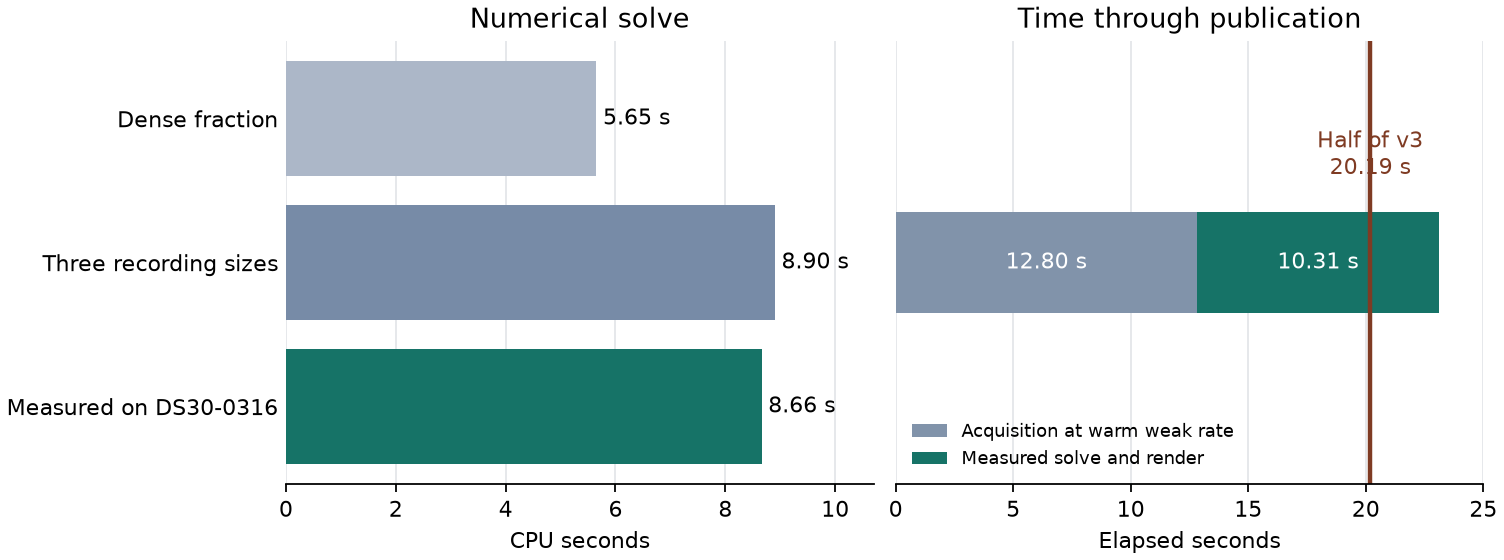
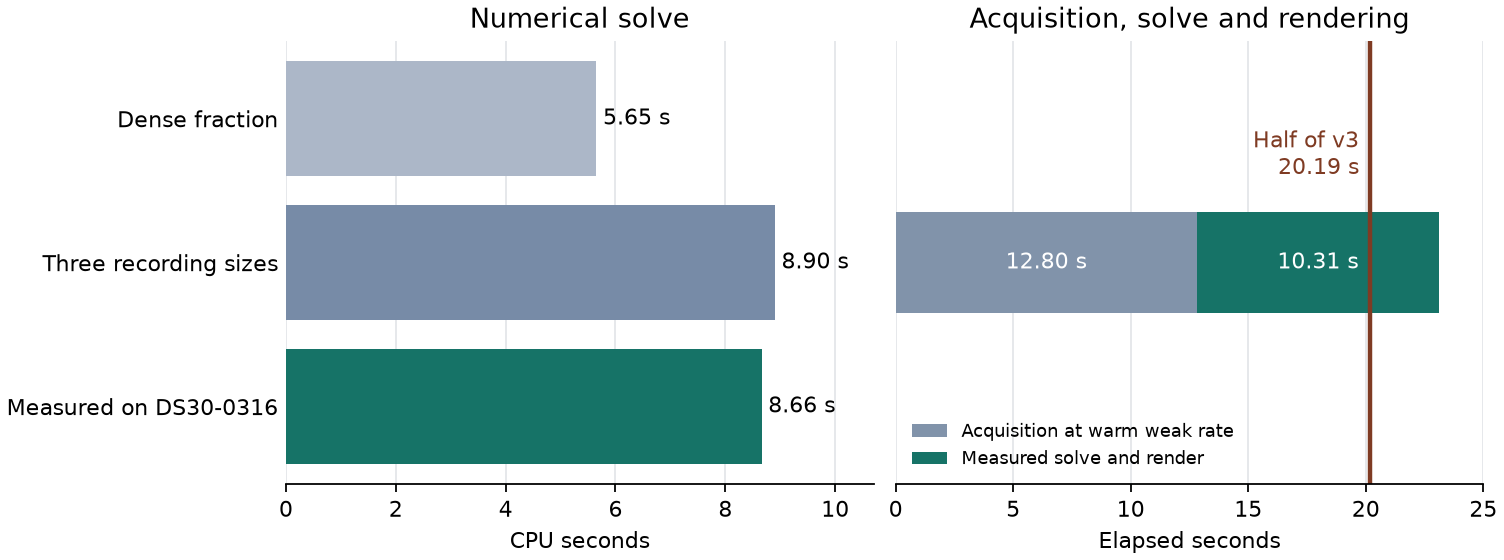
Label the measured and assumed portions of the DS30-0316 timing figure

Changed region(s): [[0.625, 0.0, 0.9375, 0.0607], [0.8125, 0.2125, 0.9375, 0.3339]]

diff --git a/reports/ALGO08/v3/prospective_solver_budget.py b/reports/ALGO08/v3/prospective_solver_budget.py
@@ -87,9 +87,10 @@ def plot(result, output):
         budget.text(left + amount / 2, 0, f"{amount:.2f} s", ha="center", va="center", color="white")
     target = half["target_s"]
     budget.axvline(target, color="#7f3b23", linewidth=2)
-    budget.text(target, .30, f"Half of v3\n{target:.2f} s", ha="center", color="#7f3b23")
+    budget.annotate(f"Half of v3\n{target:.2f} s", (target, .30), xytext=(-5, 0),
+                    textcoords="offset points", ha="right", color="#7f3b23")
     budget.legend(loc="lower left", frameon=False, fontsize=8)
-    budget.set(xlim=(0, 25), ylim=(-.75, .75), yticks=[], title="Time through publication", xlabel="Elapsed seconds")
+    budget.set(xlim=(0, 25), ylim=(-.75, .75), yticks=[], title="Acquisition, solve and rendering", xlabel="Elapsed seconds")
     for ax in (pred, budget):
         ax.spines[["left", "top", "right"]].set_visible(False)
         ax.tick_params(axis="y", length=0)
